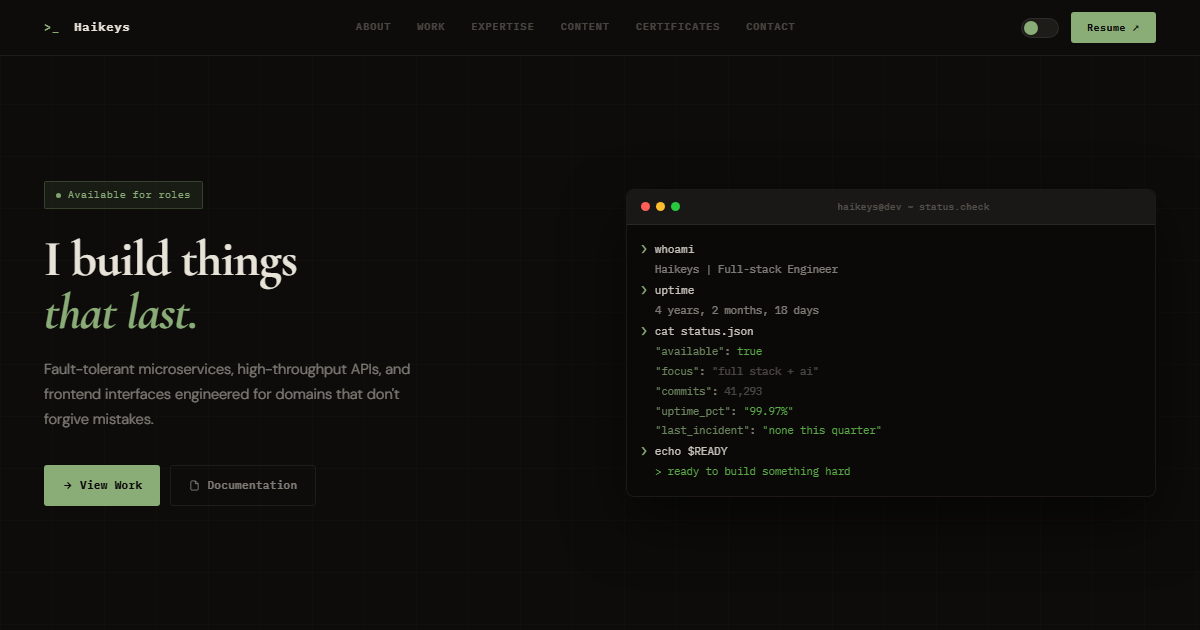
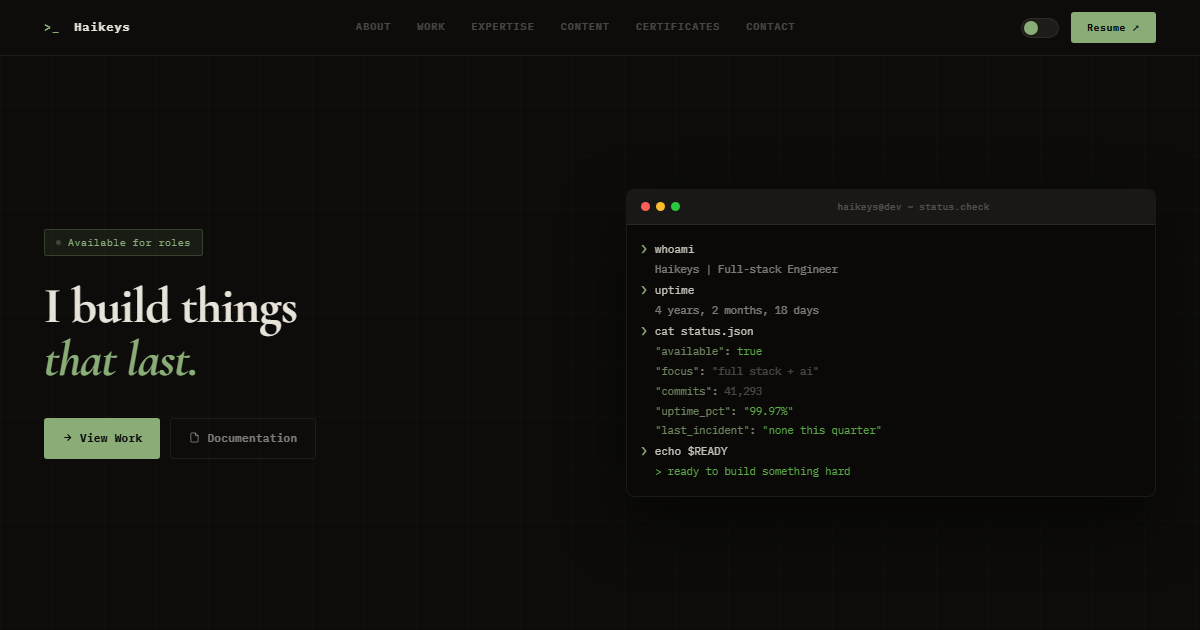
Remove hero subtitle

Changed region(s): [[0.0308, 0.3619, 0.3392, 0.6333], [0.0308, 0.6635, 0.2467, 0.8143], [0.0308, 0.3016, 0.1542, 0.3317]]

diff --git a/css/style.css b/css/style.css
@@ -388,7 +388,7 @@ nav {
   line-height: 1.05;
   letter-spacing: -0.02em;
   color: var(--ink);
-  margin-bottom: 18px;
+  margin-bottom: 32px;
   transition: color .4s;
   opacity: 0;
   animation: bootRise .24s cubic-bezier(.2,.8,.2,1) .2s forwards;
@@ -412,18 +412,6 @@ nav {
 @keyframes car {
   0%, 100% { opacity: 1; }
   50% { opacity: 0; }
-}
-
-.hero-sub {
-  font-size: 14.5px;
-  font-weight: 300;
-  color: var(--dim);
-  max-width: 390px;
-  margin-bottom: 32px;
-  line-height: 1.75;
-  transition: color .4s;
-  opacity: 0;
-  animation: bootRise .24s cubic-bezier(.2,.8,.2,1) .3s forwards;
 }
 
 .hero-btns {

diff --git a/index.html b/index.html
@@ -71,9 +71,6 @@
       I build things<br>
       <em><span id="tw"></span><span class="tcaret"></span></em>
     </h1>
-    <p class="hero-sub rv d2">
-      Fault-tolerant microservices, high-throughput APIs, and frontend interfaces engineered for domains that don't forgive mistakes.
-    </p>
     <div class="hero-btns rv d3">
       <a href="#work" class="btn-p">
         <svg width="11" height="11" viewBox="0 0 24 24" fill="none" stroke="currentColor" stroke-width="2.5"><path d="M5 12h14M12 5l7 7-7 7"/></svg>View Work
